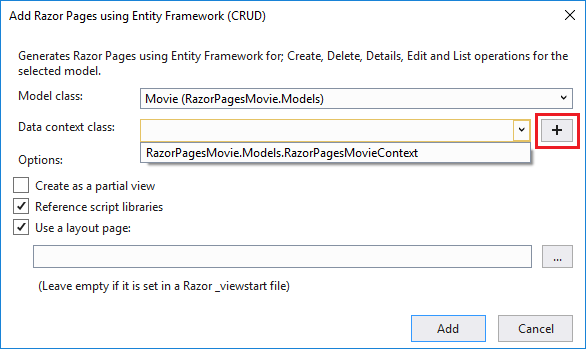
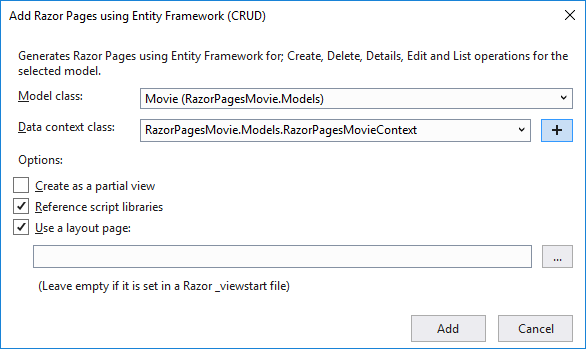
Updates to the razor pages tutorial (#8953)

Changed region(s): [[0.2457, 0.3152, 1.0, 0.4871], [0.7065, 0.9742, 0.8294, 1.0], [0.7986, 0.8883, 0.8294, 0.9169]]

diff --git a/aspnetcore/tutorials/razor-pages/model.md b/aspnetcore/tutorials/razor-pages/model.md
@@ -41,19 +41,18 @@ Complete the **Add Razor Pages using Entity Framework (CRUD)** dialog:
 
 * In the **Model class** drop down, select **Movie (RazorPagesMovie.Models)**.
 * In the **Data context class** row, select the **+** (plus) sign and accept the generated name **RazorPagesMovie.Models.RazorPagesMovieContext**.
-* In the **Data context class** drop down, select **RazorPagesMovie.Models.RazorPagesMovieContext**
 * Select **Add**.
 
 ![Image from the previous instructions.](model/_static/arp.png)
 
-The scaffold process created and changed the following files:
+The scaffold process creates and updates the following files:
 
 ### Files created
 
 * *Pages/Movies*: Create, Delete, Details, Edit, Index. These pages are detailed in the next tutorial.
 * *Data/RazorPagesMovieContext.cs*
 
-### File updates
+### File updated
 
 * *Startup.cs*: Changes to this file are detailed in the next section.
 * *appsettings.json*: The connection string used to connect to a local database is added.
@@ -104,9 +103,10 @@ dotnet ef database update
 
 Ignore the following warning message, you fix that in a a later tutorial:
 
-`Microsoft.EntityFrameworkCore.Model.Validation[30000]`
-
-      *No type was specified for the decimal column 'Price' on entity type 'Movie'. This will cause values to be silently truncated if they do not fit in the default precision and scale. Explicitly specify the SQL server column type that can accommodate all the values using 'ForHasColumnType()'.*
+```console
+Microsoft.EntityFrameworkCore.Model.Validation[30000]
+      No type was specified for the decimal column 'Price' on entity type 'Movie'. This will cause values to be silently truncated if they do not fit in the default precision and scale. Explicitly specify the SQL server column type that can accommodate all the values using 'ForHasColumnType()'.
+```
 
 The `Add-Migration` command generates code to create the initial database schema. The schema is based on the model specified in the `RazorPagesMovieContext` (In the *Data/RazorPagesMovieContext.cs* file). The `Initial` argument is used to name the migrations. You can use any name, but by convention you choose a name that describes the migration. See [Introduction to migrations](xref:data/ef-mvc/migrations#introduction-to-migrations) for more information.
 
@@ -114,8 +114,10 @@ The `Update-Database` command runs the `Up` method in the *Migrations/{time-stam
 
 If you get the error:
 
-`SqlException: Cannot open database "RazorPagesMovieContext-GUID" requested by the login. The login failed.
-Login failed for user 'User-name'.`
+```console
+SqlException: Cannot open database "RazorPagesMovieContext-GUID" requested by the login. The login failed.
+Login failed for user 'User-name'.
+```
 
 You missed the [migrations step](#pmc).
 
@@ -180,9 +182,10 @@ dotnet ef database update
 
 Ignore the following message:
 
-    `Microsoft.EntityFrameworkCore.Model.Validation[30000]`
-
-      *No type was specified for the decimal column 'Price' on entity type 'Movie'. This will cause values to be silently truncated if they do not fit in the default precision and scale. Explicitly specify the SQL server column type that can accommodate all the values using 'ForHasColumnType()'*
+```console
+Microsoft.EntityFrameworkCore.Model.Validation[30000]
+      No type was specified for the decimal column 'Price' on entity type 'Movie'. This will cause values to be silently truncated if they do not fit in the default precision and scale. Explicitly specify the SQL server column type that can accommodate all the values using 'ForHasColumnType()'
+```
 
 You fix that in the next tutorial.
 
